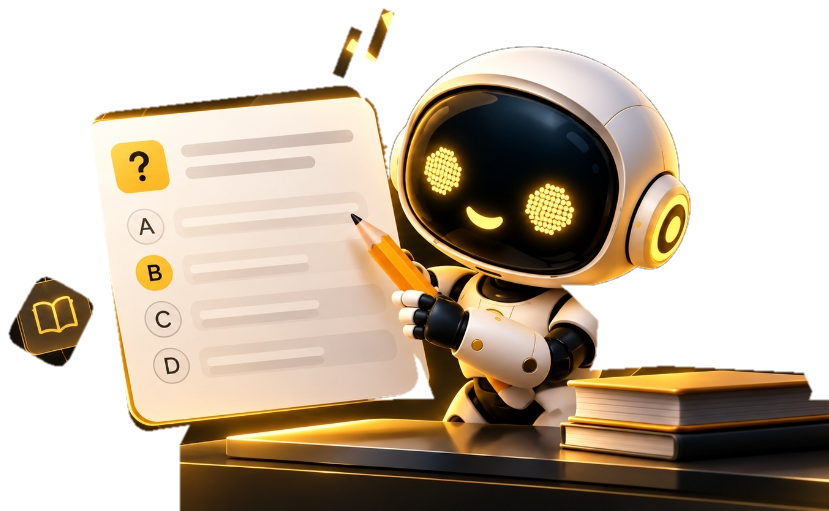
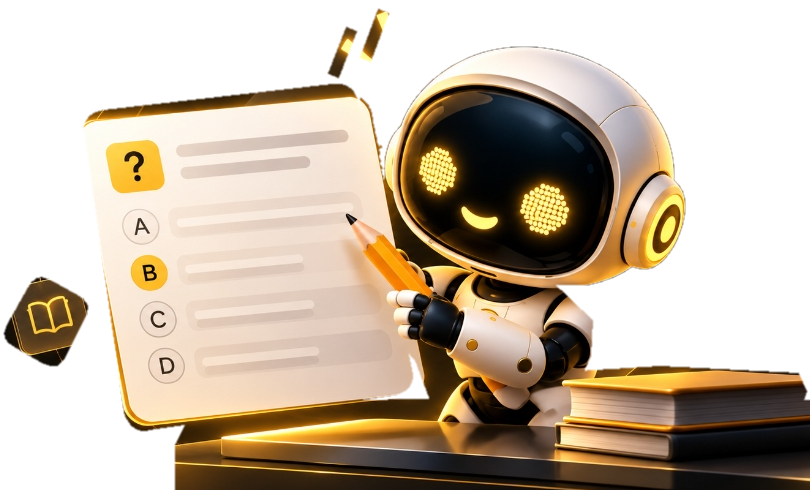
fix(quizzes): enhance particle clarity, reduce intensity, fix shrunken sizing and restore natural high-contrast colors

diff --git a/frontend/components/VedikaParticleBot.jsx b/frontend/components/VedikaParticleBot.jsx
@@ -244,10 +244,10 @@ export default function VedikaParticleBot({
       const aspect = naturalW / naturalH;
 
       if (inline) {
-        targetHeight = Math.max(10, Math.floor((height || 250) * 0.90));
+        targetHeight = Math.max(10, Math.floor((height || 250) * 0.95));
         targetWidth = Math.max(10, Math.floor(targetHeight * aspect));
-        if (targetWidth > (width || 220) * 0.95) {
-          targetWidth = Math.max(10, Math.floor((width || 220) * 0.95));
+        if (targetWidth > (width || 220) * 0.98) {
+          targetWidth = Math.max(10, Math.floor((width || 220) * 0.98));
           targetHeight = Math.max(10, Math.floor(targetWidth / aspect));
         }
       } else {
@@ -293,9 +293,10 @@ export default function VedikaParticleBot({
 
       const scaleX = targetWidth / sampleW;
       const scaleY = targetHeight / sampleH;
-      const step = inline ? 2 : (isMobile ? 4 : 3);
+      const step = isMobile ? 4 : 3;
       const targets = [];
       const sizeFactor = inline ? 0.96 : 1.0;
+      const currentInt = intensityRef.current || 1.0;
 
       for (let y = 0; y < sampleH; y += step) {
         for (let x = 0; x < sampleW; x += step) {
@@ -322,30 +323,30 @@ export default function VedikaParticleBot({
             const saturation = maxC > 0 ? (maxC - minC) / maxC : 0;
 
             if (saturation > 0.16 && maxC > 40) {
-              const boost = 1.35;
+              const boost = 1.18;
               baseR = Math.min(255, Math.round(r * boost));
               baseG = Math.min(255, Math.round(g * boost));
               baseB = Math.min(255, Math.round(b * boost));
-              baseAlpha = Math.min(1, Math.max(0.92, alphaNorm * 1.2));
-              pSize = (1.68 + Math.random() * 0.35) * sizeFactor;
+              baseAlpha = Math.min(1, Math.max(0.78, alphaNorm * 0.92)) * currentInt;
+              pSize = (1.18 + Math.random() * 0.25) * sizeFactor;
             } else if (luminance > 160) {
-              baseR = 255;
-              baseG = 255;
-              baseB = 255;
-              baseAlpha = Math.min(1, Math.max(0.96, (0.92 + ((luminance - 160) / 95) * 0.08) * alphaNorm * 1.15));
-              pSize = (1.75 + Math.random() * 0.30) * sizeFactor;
-            } else if (luminance > 75) {
-              baseR = Math.min(255, Math.round(r * 1.10));
-              baseG = Math.min(255, Math.round(g * 1.10));
-              baseB = Math.min(255, Math.round(b * 1.16));
-              baseAlpha = Math.min(1, Math.max(0.90, alphaNorm * 1.1));
-              pSize = (1.45 + Math.random() * 0.25) * sizeFactor;
-            } else {
-              baseR = Math.round(r * 1.05);
-              baseG = Math.round(g * 1.05);
-              baseB = Math.round(b * 1.10);
-              baseAlpha = Math.min(1, Math.max(0.82, alphaNorm * 1.05));
+              baseR = r;
+              baseG = g;
+              baseB = b;
+              baseAlpha = Math.min(0.86, (0.74 + ((luminance - 160) / 95) * 0.10) * alphaNorm) * currentInt;
               pSize = (1.20 + Math.random() * 0.25) * sizeFactor;
+            } else if (luminance > 75) {
+              baseR = r;
+              baseG = g;
+              baseB = b;
+              baseAlpha = Math.min(0.80, alphaNorm * 0.86) * currentInt;
+              pSize = (1.05 + Math.random() * 0.20) * sizeFactor;
+            } else {
+              baseR = r;
+              baseG = g;
+              baseB = b;
+              baseAlpha = Math.min(0.72, alphaNorm * 0.80) * currentInt;
+              pSize = (0.95 + Math.random() * 0.20) * sizeFactor;
             }
           } else {
             if (luminance > 165) {
@@ -756,9 +757,9 @@ export default function VedikaParticleBot({
         const scale = Math.min(1.8, Math.max(0.2, rawScale));
         const renderX = centerX + (p.x - centerX) * scale;
         const renderY = centerY + (p.y - centerY) * scale;
-        const baseSize = inline ? (isHighIntensity ? 1.22 : 1.1) : 0.8;
-        const maxSize = isHighIntensity ? 3.8 : 3.4;
-        const renderSize = Math.max(baseSize, Math.min(maxSize, p.size * scale * (isHighIntensity ? 1.08 : 1.0)));
+        const baseSize = 0.8;
+        const maxSize = isHighIntensity ? 3.4 : 3.0;
+        const renderSize = Math.max(baseSize, Math.min(maxSize, p.size * scale * (isHighIntensity ? 1.05 : 0.95)));
 
         // Soft edge fade near left boundary instead of sharp rectangular clipping
         let edgeFade = 1;

diff --git a/frontend/components/QuizzesAssignmentsWorkspace.jsx b/frontend/components/QuizzesAssignmentsWorkspace.jsx
@@ -507,8 +507,8 @@ export default function QuizzesAssignmentsWorkspace({ initialMode = 'quizzes' })
         /* DEFAULT STATE: QUIZZES ACTIVE */
         .box1-content {
           background: transparent !important;
-          flex: 7 !important;
-          max-width: 68% !important;
+          flex: 5.5 !important;
+          max-width: 56% !important;
           display: flex;
           flex-direction: column;
           opacity: 1 !important;
@@ -525,11 +525,11 @@ export default function QuizzesAssignmentsWorkspace({ initialMode = 'quizzes' })
         .box1-side {
           background: transparent !important;
           border-left: none !important;
-          flex: 3 !important;
-          max-width: 32% !important;
+          flex: 4.5 !important;
+          max-width: 48% !important;
           opacity: 1 !important;
           min-width: 0;
-          padding: 16px 20px 20px 10px;
+          padding: ${isMobile ? '10px' : '16px 24px 20px 0'};
           pointer-events: auto !important;
           display: flex;
           flex-direction: column;
@@ -1029,21 +1029,20 @@ export default function QuizzesAssignmentsWorkspace({ initialMode = 'quizzes' })
           <div style={{
             position: 'relative',
             width: '100%',
-            maxWidth: 500,
-            height: isMobile ? 300 : 390,
+            maxWidth: 640,
+            height: isMobile ? 320 : 490,
             display: 'flex',
             alignItems: 'center',
             justifyContent: 'center',
             zIndex: 2
           }}>
             <VedikaParticleBot
-              src="/vedika-bot-quiz.png?v=2"
+              src="/vedika-bot-quiz.png?v=4"
               colorMode="vibrant"
-              width={isMobile ? 360 : 500}
-              height={isMobile ? 280 : 380}
+              width={isMobile ? 360 : 640}
+              height={isMobile ? 280 : 480}
               inline={true}
-              themeRgb="245, 158, 11"
-              intensity={1.05}
+              intensity={0.82}
             />
           </div>
 
